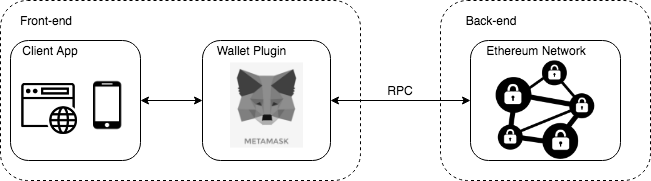
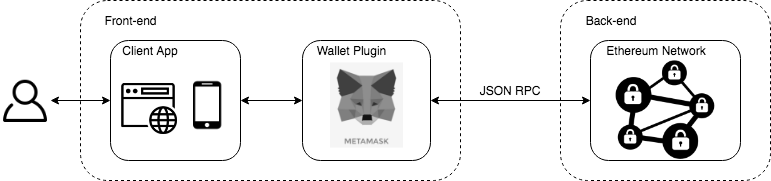
Updated architecture diagrams

diff --git a/Architecture.md b/Architecture.md
@@ -8,7 +8,7 @@ This page contains Tenancy Deposit DApp HLA diagrams.
 ![Tenancy Deposit DApp Architecture](diagrams/TenancyDepositDApp-Architecture.png?raw=true "Tenancy Deposit DApp Architecture")
 
 ### Future
-`TBA`
+![Tenancy Deposit DApp Future Architecture](diagrams/TenancyDepositDApp-Future-Architecture.png?raw=true "Tenancy Deposit DApp (Future) Architecture")
 
 ## Contract State Machine
 ![Tenancy Deposit Contract State Machine](diagrams/TenancyDepositDApp-StateMachine.png?raw=true "Tenancy Deposit Contract State Machine")
